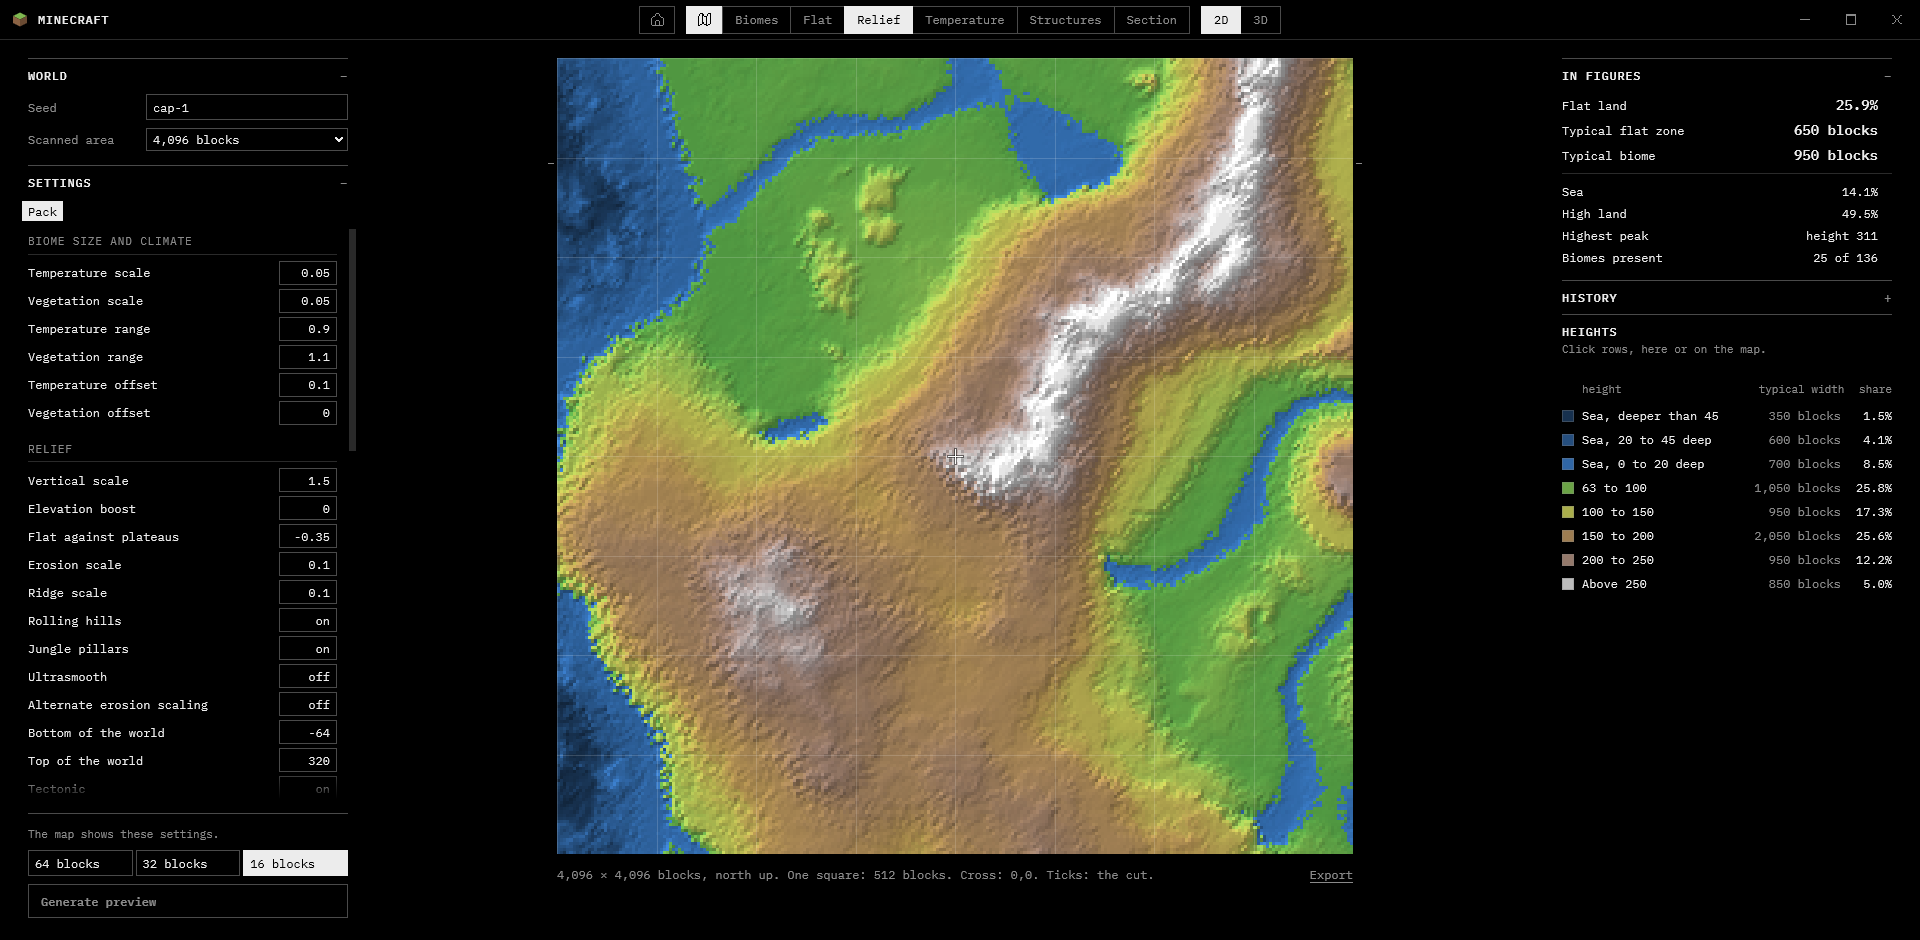
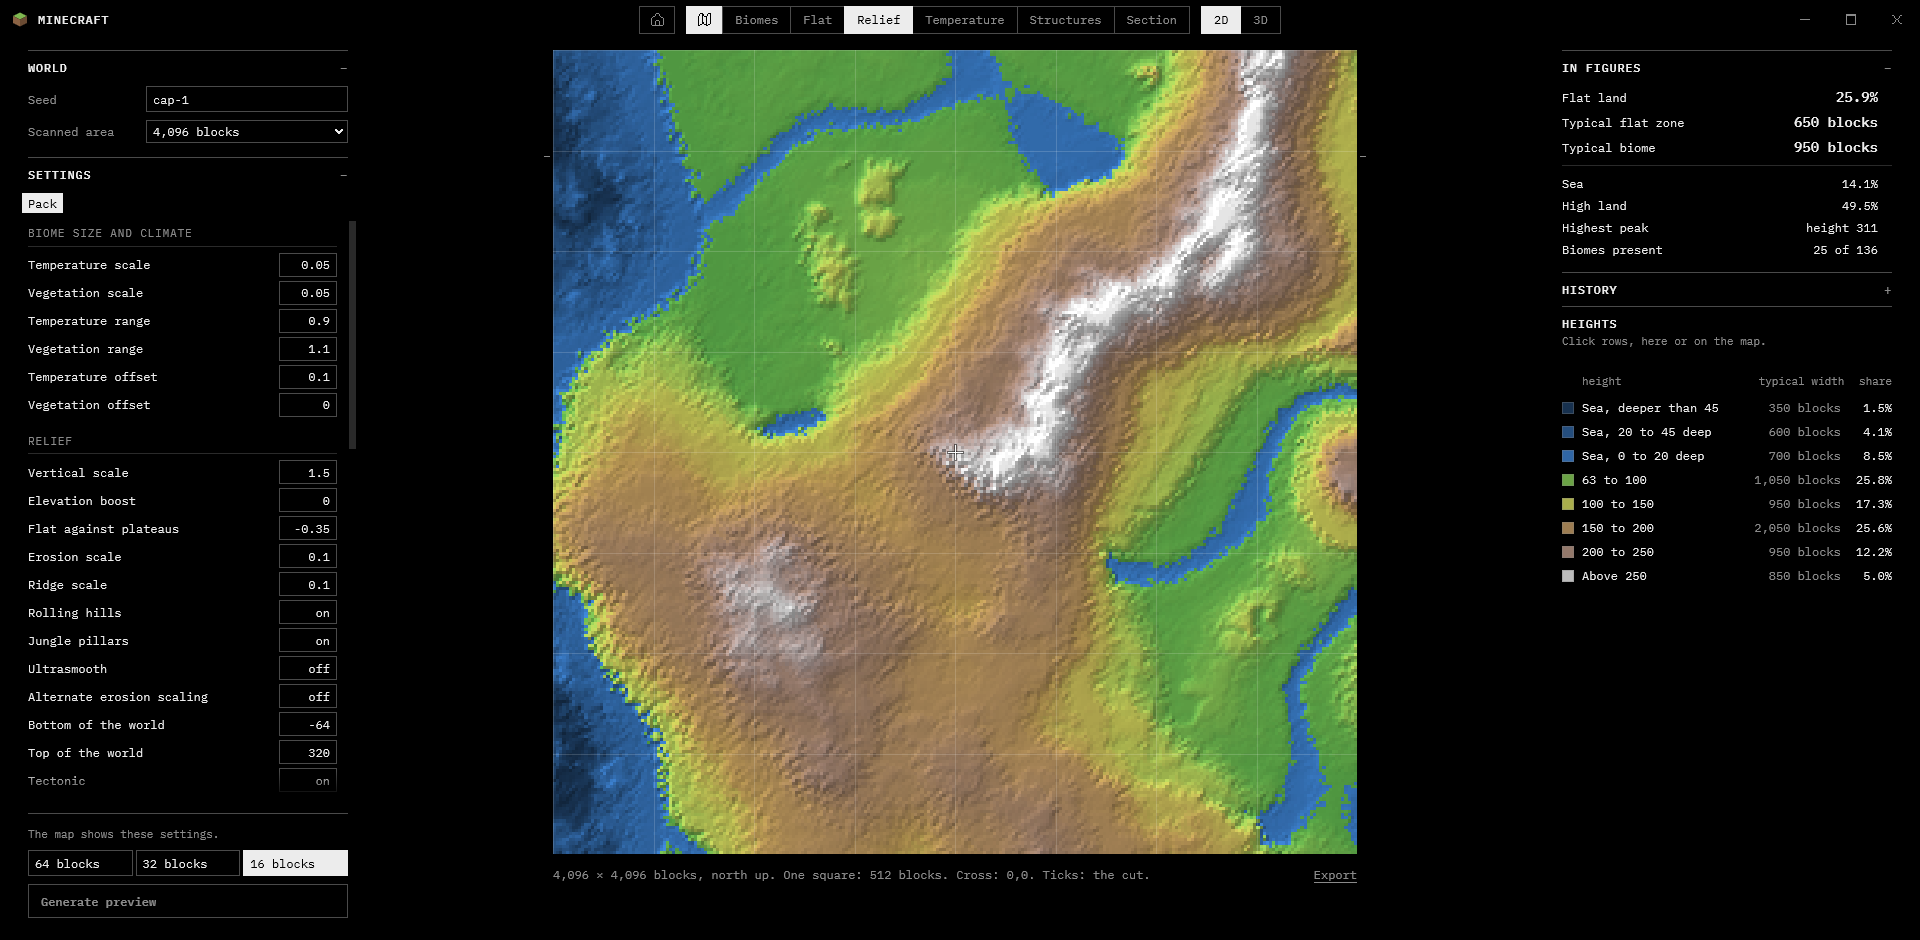
docs: step 19.5 in the handoff, the design dossier and AGENTS; the bar and responsive pictures

diff --git a/AGENTS.md b/AGENTS.md
@@ -20,7 +20,7 @@ A small native interface toolkit in Rust, owned end to end and grown piece by pi
 - `crates/nui-layout`: pure layout: flex (build step 7), the reduced grid, absolute boxes against their parent and the layout side of overflow (build step 8), tree, measure callbacks, a debug dump. No OS code.
 - `crates/nui-ui`: the immediate-mode interface: ids, pointer input, the page's dark and light themes, label, button, toggle, fold, tabs, the text field and number field, the ellipsis text, the vertical scroll area with the page's thin scrollbar, and the list row (also as a round mark), legend head, part head, pick links, the hover area, the icon parser, the window buttons and the grips of `chrome.rs`, the cursor shapes and the tooltips, and the history trend row with its plotted lines (editing model in `edit.rs`, one focused field, keys and clipboard through `nui-base`); hit tests use the last frame's rects. Depends on `nui-base` and `nui-layout` only.
 - `demos/shell-boxes`: the world preview's page shell laid out at 1400, 1200 and 1000 px and drawn as named boxes and the gallery of the page's grid rows and absolute boxes (`cargo test -p shell-boxes` writes `target/tmp/shell_<width>.png` and `target/tmp/gallery.png`).
-- `demos/preview`: the world preview's window: the shell (step 13: bar, three columns, the real settings sections and static values) and, with `--data DIR`, the 2D map of an out folder in the stage (step 14: the five views, pan, zoom, grid, cross, ticks, structure marks, probe), in a window or as a picture, and the 3D view inside the stage (step 15: `scene.rs`, shared with `demos/relief`; left-drag turns, the wheel zooms, `--camera`), and the Section view (step 16: `section.rs` the model and the ore play, `cut.rs` the look, the sheet, the strip and the probe; wheel, drag, strip, "Another cut", the ORES list; `--cut`, `--ore`, `--cut-look`) (`cargo test -p preview` writes `target/tmp/preview_<width>.png`, `map_*.png`, `relief3d_*.png`, `section_*.png`; `docs/shots/preview-*.png`, `map-*.png`, `stage-3d-*.png` and `section-*.png` are the pictures). `tools/page_paint.mjs` and `tools/page_section.mjs` are the reference runs of the page's own `paint()` and section code in Node, which `tests/page_paint.rs` and `tests/page_section.rs` compare byte for byte. And data and runs (step 17: `run.rs`; reads `--data`, default `C:\Games\preview\out`, with its `run.json`; Generate runs the script given by `--generator`, with `--pack`, following its `progress.json`, with a stop, a queued re-run, a learned pace and the busy veil; Export writes the 2D pictures and the section sheet; tested against `tools/stub_run.ps1`, never against the real `preview.ps1` yet; everything it writes goes under `--runs`, which must lie inside `target/tmp`, and `--data` is never written) (`cargo test -p preview` also writes `target/tmp/run_40.png` and `export_done.png`; `docs/shots/run-progress.png` and `export-done.png` are the pictures). And the right column (step 18: `figures.rs` the page's `measure` and the figure cells, `history.rs` the history and its trend lines, kept in `<runs>/history.json` and `before.json`; the list follows the view; the theme follows the system's light or dark setting, `--theme dark|light|system`; `tools/page_figures.mjs` is the reference run of the page's figures, lists and history in Node, which `tests/page_figures.rs` compares bit for bit) (`cargo test -p preview` also writes `target/tmp/figures_*.png`, `history_1400.png`, `structures_list.png` and `scheme_switched.png`; `docs/shots/figures-*.png`, `history.png` and `structures-list.png` are the pictures). And the launcher's bar and the fixed panels (step 19: `bar.rs` the bar on the window's own frame, drawn as the launcher draws it, with its tool switch between Home and the preview and its icons after Pixelarticons (MIT, notice in `demos/preview/THIRD-PARTY.md`); the side panels are fixed, 320 px on the left and 330 on the right, and the centre is one continuous column whose square side is `min(W - 762, H - 144)`, with no breakpoint and a minimum window of 1000x600; titles as tooltips, cursor shapes, a wake timer instead of a busy loop, a hidden window that still follows its run, `export.json` beside the pictures, and a preview folder that cannot be read shown as the page's note instead of a closed window) (`cargo test -p preview` also writes `target/tmp/responsive_*.png`, `bar_*.png`, `tooltip.png` and `error_*.png`; `docs/shots/bar-*.png`, `responsive-*.png`, `tooltip.png` and `error-*.png` are the pictures). The preview is native as of step 19; its Home pane is a placeholder.
+- `demos/preview`: the world preview's window: the shell (step 13: bar, three columns, the real settings sections and static values) and, with `--data DIR`, the 2D map of an out folder in the stage (step 14: the five views, pan, zoom, grid, cross, ticks, structure marks, probe), in a window or as a picture, and the 3D view inside the stage (step 15: `scene.rs`, shared with `demos/relief`; left-drag turns, the wheel zooms, `--camera`), and the Section view (step 16: `section.rs` the model and the ore play, `cut.rs` the look, the sheet, the strip and the probe; wheel, drag, strip, "Another cut", the ORES list; `--cut`, `--ore`, `--cut-look`) (`cargo test -p preview` writes `target/tmp/preview_<width>.png`, `map_*.png`, `relief3d_*.png`, `section_*.png`; `docs/shots/preview-*.png`, `map-*.png`, `stage-3d-*.png` and `section-*.png` are the pictures). `tools/page_paint.mjs` and `tools/page_section.mjs` are the reference runs of the page's own `paint()` and section code in Node, which `tests/page_paint.rs` and `tests/page_section.rs` compare byte for byte. And data and runs (step 17: `run.rs`; reads `--data`, default `C:\Games\preview\out`, with its `run.json`; Generate runs the script given by `--generator`, with `--pack`, following its `progress.json`, with a stop, a queued re-run, a learned pace and the busy veil; Export writes the 2D pictures and the section sheet; tested against `tools/stub_run.ps1`, never against the real `preview.ps1` yet; everything it writes goes under `--runs`, which must lie inside `target/tmp`, and `--data` is never written) (`cargo test -p preview` also writes `target/tmp/run_40.png` and `export_done.png`; `docs/shots/run-progress.png` and `export-done.png` are the pictures). And the right column (step 18: `figures.rs` the page's `measure` and the figure cells, `history.rs` the history and its trend lines, kept in `<runs>/history.json` and `before.json`; the list follows the view; the theme follows the system's light or dark setting, `--theme dark|light|system`; `tools/page_figures.mjs` is the reference run of the page's figures, lists and history in Node, which `tests/page_figures.rs` compares bit for bit) (`cargo test -p preview` also writes `target/tmp/figures_*.png`, `history_1400.png`, `structures_list.png` and `scheme_switched.png`; `docs/shots/figures-*.png`, `history.png` and `structures-list.png` are the pictures). And the launcher's bar and the fixed panels (step 19: `bar.rs` the bar on the window's own frame, drawn as the launcher draws it, with its tool switch between Home and the preview and its icons after Pixelarticons (MIT, notice in `demos/preview/THIRD-PARTY.md`); the bar floats, with no line under it, and the content starts 10 px under it (`CONTENT_TOP`, step 19.5); the side panels are fixed, 320 px on the left and 330 on the right, and the centre is one continuous column whose square side is `min(W - 762, H - 136)`, with no breakpoint and a minimum window of 1000x600; titles as tooltips, cursor shapes, a wake timer instead of a busy loop, a hidden window that still follows its run, `export.json` beside the pictures, and a preview folder that cannot be read shown as the page's note instead of a closed window) (`cargo test -p preview` also writes `target/tmp/responsive_*.png`, `bar_*.png`, `tooltip.png` and `error_*.png`; `docs/shots/bar-*.png`, `responsive-*.png`, `tooltip.png` and `error-*.png` are the pictures). The preview is native as of step 19; its Home pane is a placeholder.
 - `demos/relief`: the preview's 3D scene alone in a window (or as a picture) with a facts plate; it reads the `out` folder through the `preview` crate.
 - `demos/widgets`: the widgets in the page's looks: a live window, `--shot`, and `cargo test -p widgets` writing `target/tmp/widgets_dark.png` and `widgets_light.png`, plus the controls sheet (folds, strip, choice, details, number fields): the same test run writes `target/tmp/controls_<theme>.png`, and `--controls` opens it live; the fields sheet (text and number fields driven by scripted events): the same test run writes `target/tmp/fields_<theme>.png`, and `--fields` opens it live; the lists sheet (biome list with scrollbar, narrow list with absent rows, trend rows): the same test run writes `target/tmp/lists_<theme>.png`, and `--lists` opens it live.
 - `GLOSSARY.md`: the project's words (bar, tool, view, strip, panel, stage, cut, probe, run…), confirmed with the maintainer; name things this way.

diff --git a/docs/handoff.md b/docs/handoff.md
@@ -363,8 +363,8 @@ inside `nui-win32`), and looked at `figures-1400`, `history`, `stage-3d-relief`,
 The step 15 and 17 shots still show step 13's placeholder figures in the right column: they are those steps' record.
 
 Step 19 (2026-11-15) answered the maintainer's remark that the page had too many breakpoints: the world preview's
-panels never move (left 320, right 330, gap 28, padding 18/28/22/28), the centre is one column that scales by one
-rule (the map's square side is `min(W - 762, H - 144)`; the brief's `W - 752` left ten pixels out: 320 + 330 + 2 x 28 +
+panels never move (left 320, right 330, gap 28, padding 18/28/22/28; step 19.5: 10/28/22/28), the centre is one column that scales by one
+rule (the map's square side is `min(W - 762, H - 144)` (step 19.5: `H - 136`); the brief's `W - 752` left ten pixels out: 320 + 330 + 2 x 28 +
 2 x 28 = 762), and the top bar has one form from 1000 px up. The window has a minimum of 1000x600, so no layout
 below it exists. The bar is the launcher's, on a frame of our own (`WM_NCCALCSIZE` returns 0, `WM_NCHITTEST` asks
 `App::hit`, the buttons are drawn by `nui-ui`'s `chrome.rs`), with the tool switch Home / preview. The same step
@@ -398,7 +398,7 @@ the window stays open (the CLI no longer exits 1 for it).
   a hidden window's `tick()` looks at the run and leaves the end for the next frame, which holds the device;
   `export.json` writes `ores.added` as null (no editor for the added rows natively) and `ores` as null outside the
   section view; the Home pane is a placeholder text; `UNREADABLE` is our own sentence in the page's style.
-- UNVERIFIED: the bar's hairline at scale 1.5 spills one device row below the bar and was not compared with Chrome;
+- UNVERIFIED, moot since step 19.5 (the hairline is gone): the bar's hairline at scale 1.5 spills one device row below the bar and was not compared with Chrome;
   no live check of the window (the cursor, the tooltip delay, the minimum size, occlusion, a DPI change between monitors,
   Aero snap on the own frame) was made, only the pure functions behind them and the offscreen pictures.
 - Also UNVERIFIED: the DWM margins of 1 px on a live window (a system-coloured line at the top would mean using 0),
@@ -407,6 +407,20 @@ the window stays open (the CLI no longer exits 1 for it).
 - Not built: glyph tabs and `condense`, the options transition, the marker blink, snap layouts on Maximise, the close
   confirmation, `#account`, caret blink, focus rings, changed marks and their hints; the 3D and structures pictures in
   the export; the window's dark title bar (the own frame has none); IME.
+
+Step 19.5 (2026-11-15) answered the maintainer's remark on `bar-1400.png`: the header should float, with no line
+separating it, and the gap under the bar was too big. The bar's hairline is removed (a deliberate departure from the
+launcher page's `#titlebar` border-bottom; the pack's repository is not changed). The content now starts `CONTENT_TOP` =
+10 px under the bar, for the preview and for Home, instead of the page's 18. The rule is now
+`side = min(W - 762, H - 136)` (40 + 10 + 22 + 64 = 136); the panels start at y 50 and are `H - 72` high. The bar's
+1 px bottom padding is kept so no part moved. Home's pane is inset like the preview's page and holds a `homeBody`
+box (step 21 builds in it).
+- Evidence: `cargo test --offline --workspace` 380 passed, 0 failed, 1 ignored; B6 asserts no full-width line in the top
+  60 px and the page's ground in rows 39..50 at scales 1, 1.5, 2. Regenerated in `docs/shots`: `bar-1400`,
+  `bar-1400-light`, `bar-x2`, `bar-home`, `bar-maximized`, `bar-hover-close`, `responsive-1920`,
+  `responsive-1400x600`, `responsive-section-1000`. The other shots are earlier steps' records and were not redone.
+- PLACEHOLDER: the Home pane is unchanged (`HOME_LATER`, now inside `home_body`).
+- Not built: unchanged (no animation, `#account`).
 
 Next: step 20 (IME in the text field, UNVERIFIED need) and step 21 (the launcher's own migration, in the pack's repository).
 

diff --git a/docs/design.md b/docs/design.md
@@ -404,6 +404,7 @@ All screenshots are produced by `nui-shot <view-name> <w>x<h> [--scale 1.5] [--t
 | 17 | Data and runs: read `out` folder, spawn the PowerShell script, poll progress, run button with progress bar, export PNG button | Done: Generate starts the generator script by the real argument protocol (`run::command`, 43 keys, switches as booleans) and follows `progress.json` once a second; the run block has the running button (`docs/shots/run-progress.png`: "Generating…" framed in `--text` and filled `--line` to 40 % of 278 px, the 34 x 34 stop square 6 px right, "20 s of about 50 s.", the hairline at 40 %, the steps "✓ … N s" and "› Map, every 16 blocks · 40 %", the map at 0.3 over the ground), a stop that ends the process tree (`taskkill /T /F` through `nui_base::Launcher`; the stub's grandchild is gone in the test) and a queued re-run; a finished run becomes the world and teaches the pace; Export writes biomes, flat, height and temperature PNGs equal to `paint()` byte for byte and the last section sheet (`docs/shots/export-done.png`, 200 of 200 sampled stage pixels equal a texel of `biomes.png` around their place). The real `preview.ps1` was not run (downloads, pack, EULA, Java, gradle); the tests use `tools/stub_run.ps1`, which refuses any folder outside `target/tmp`. 305 tests in the workspace, none skipped | 5 |
 | 18 | Figures column, history list, light/dark switch with OS setting | Done: the right column follows the view with the page's numbers (`docs/shots/figures-1400.png`, `figures-light.png`, `figures-change.png`, `figures-1000.png`, `history.png`, `structures-list.png`). `tools/page_figures.mjs` runs the page's own `measure`, `listOf`, `showFigures`, `remember` and `showHistory` in Node on `C:\Games\preview\out`, and `tests/page_figures.rs` finds the 10 figures, the 5 lists (cells and widths to the bit), the 111 absent ids, 232 width and share strings, the 3 figure-cell cases, the 5 stored history entries and 15 trend paths equal; a window switched to the system's other scheme draws the same bytes as a fresh one | 3 |
 | 19 | Launcher bar on an own frame, fixed panels, polish: cursor shapes, tooltips, device loss, DPI change, occlusion, errors, export.json | Pictures of the bar at 100/150/200 %, the fixed layout at 1000..1920 and the errors; manual checks of the live window | 4 |
+| 19.5 | The bar floats: no hairline under it, content 10 px under the bar (preview and Home) | bar-1400.png without the line, the fixed-layout sweep with the panels at y 50 | 1 |
 | 20 | IME (IMM32) in the text field | Manual only (needs a Japanese/Chinese IME; UNVERIFIED need) | 6 |
 | 21 | Launcher migration (custom frame, tabs, collapse animation) in the pack's repository | PNGs of Home and preview tabs | later |
 
